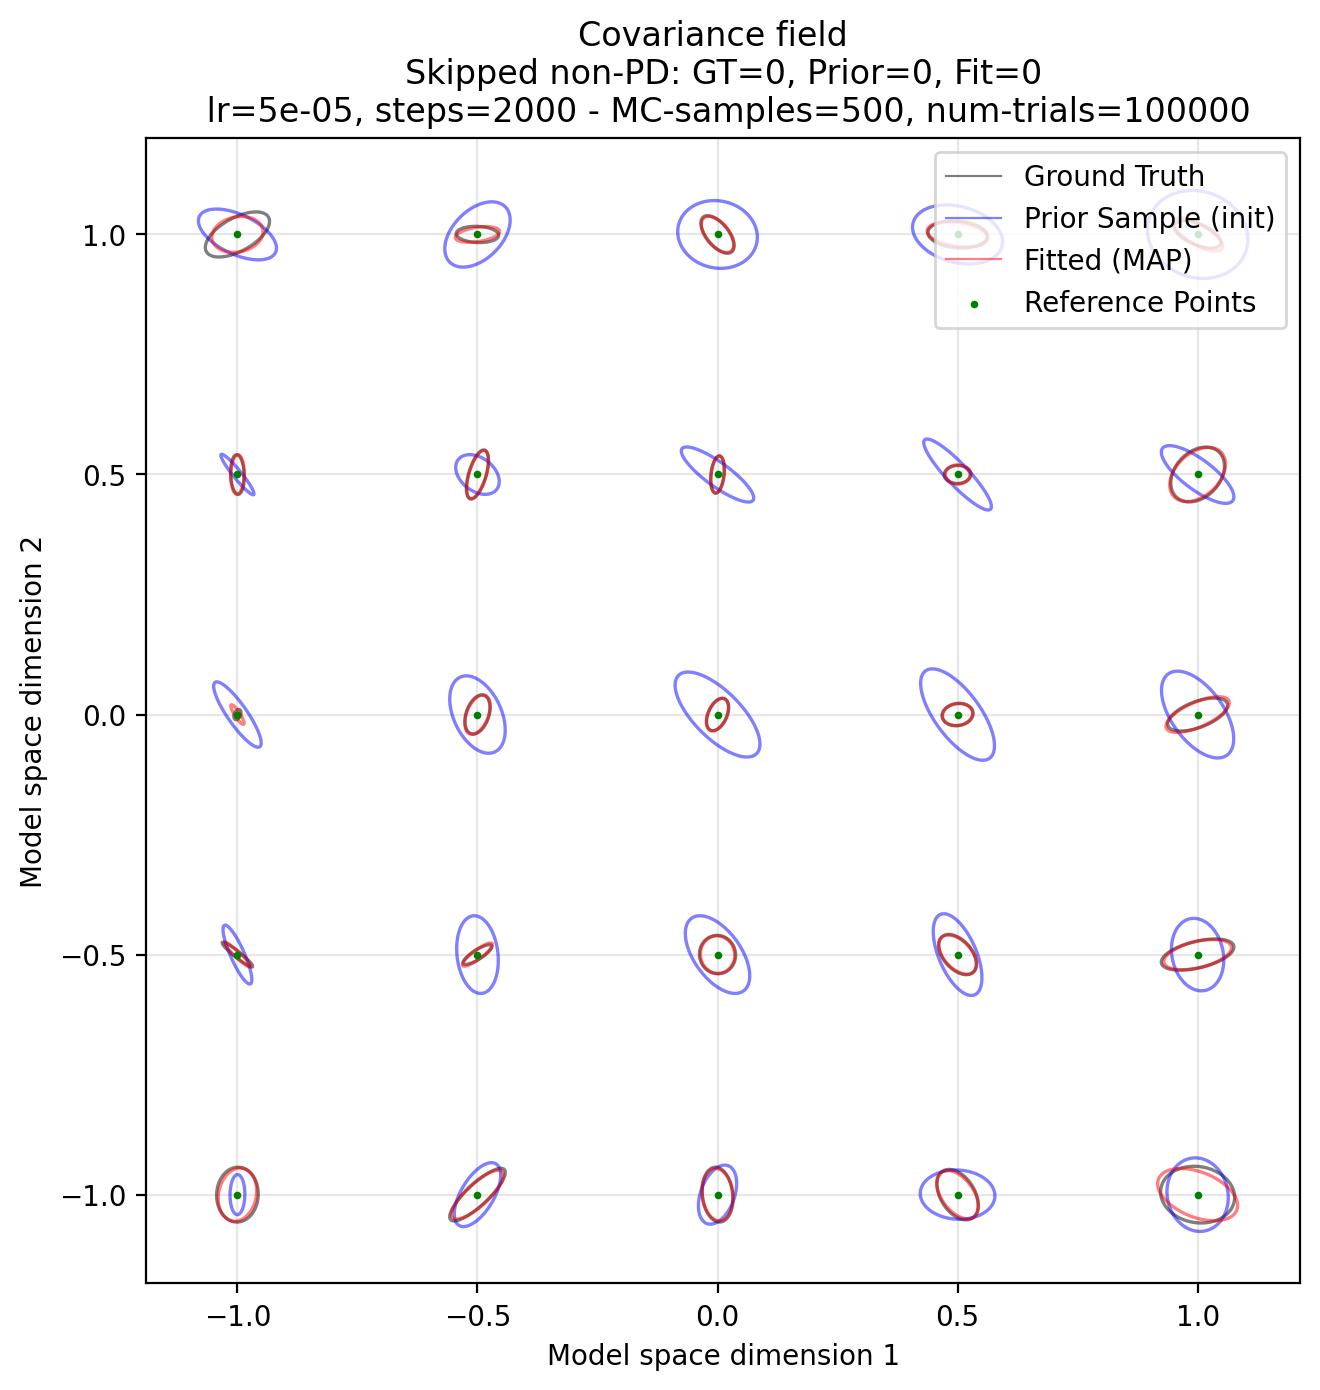
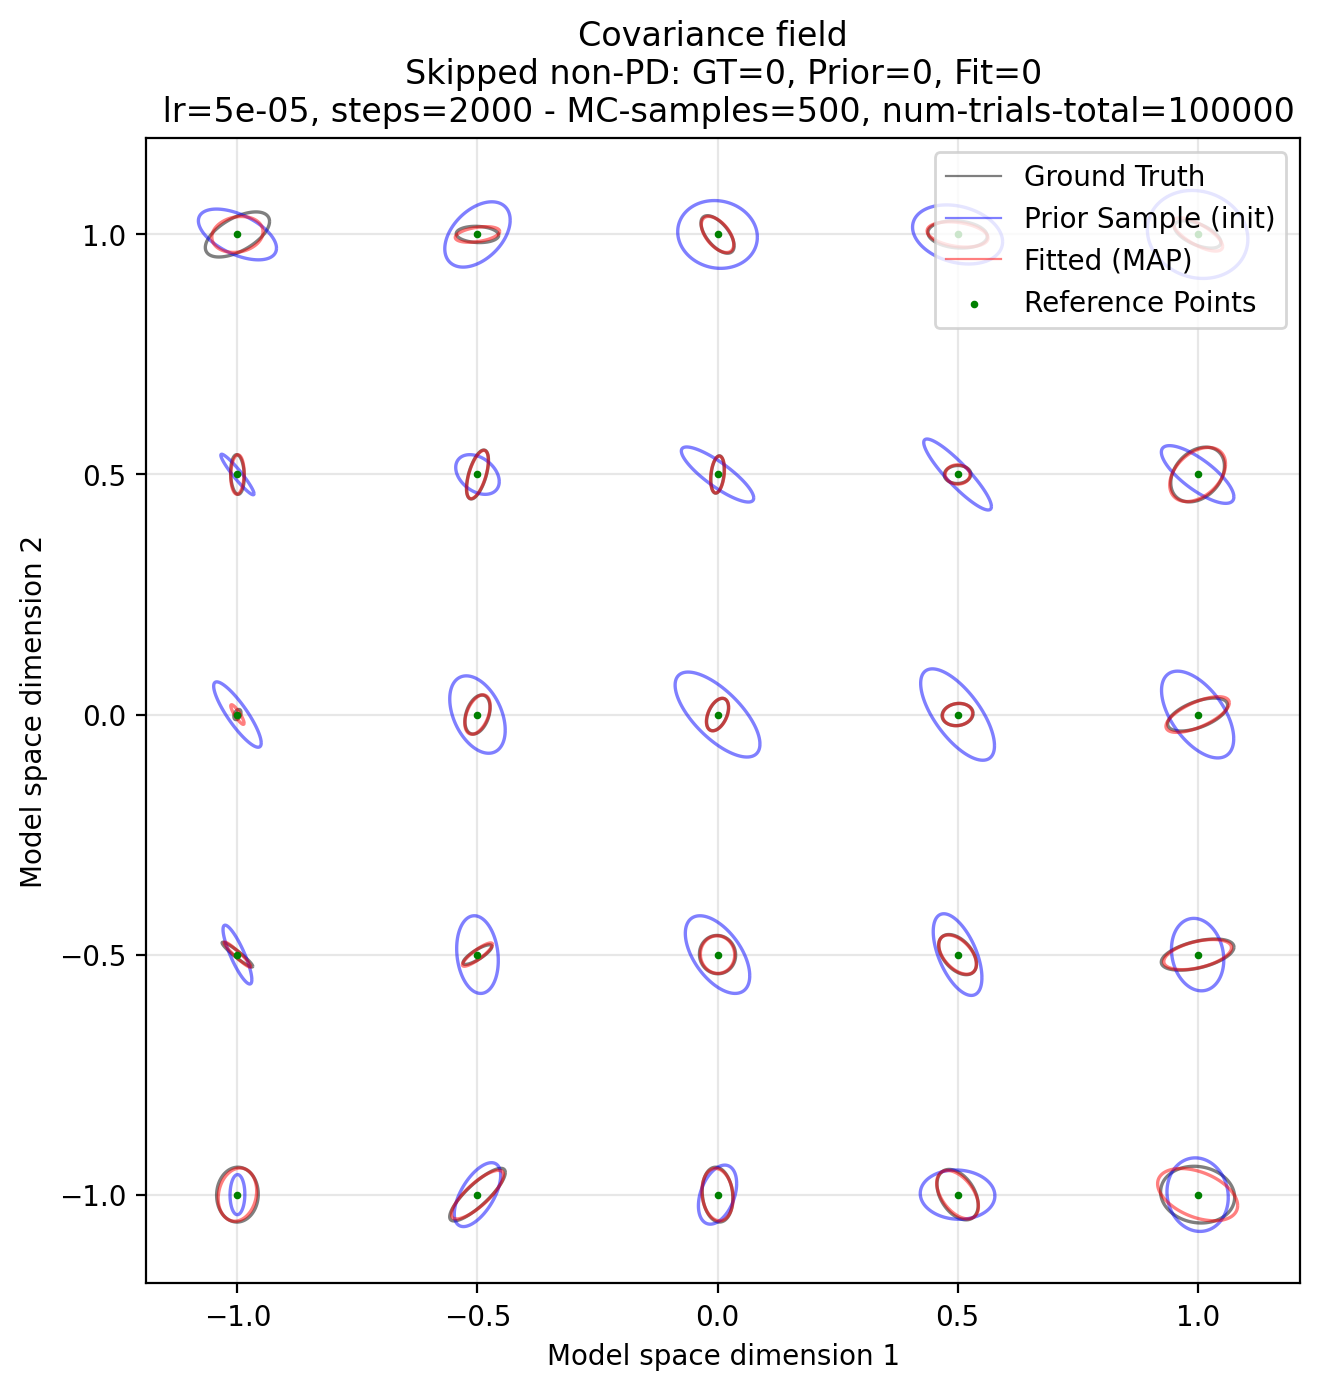
small tutorial update

Changed region(s): [[0.1242, 0.0619, 0.9939, 0.0928]]

diff --git a/docs/examples/wppm/full_wppm_fit_example.py b/docs/examples/wppm/full_wppm_fit_example.py
@@ -155,7 +155,7 @@ def _ellipse_segments_from_covs(
 
 NUM_GRID_PTS = 10  # Number of reference points over stimulus space.
 MC_SAMPLES = 500  # Number of Monte Carlo samples per trial in the likelihood. # 500
-NUM_TRIALS_TOTAL = 4000  # Total number of trials in the simulated dataset.
+NUM_TRIALS_Per_Ref = 4000  # Total number of trials in the simulated dataset.
 # 4000 trials does not work on cpu
 
 
@@ -219,7 +219,7 @@ truth_params = truth_model.init_params(jax.random.PRNGKey(123))
 
 
 # --8<-- [start:simulate_data]
-num_trials_per_ref = NUM_TRIALS_TOTAL  # (trials per reference point)
+num_trials_per_ref = NUM_TRIALS_Per_Ref  # (trials per reference point)
 n_ref_grid = 5  # NUM_GRID_PTS
 ref_grid = jnp.linspace(-1, 1, n_ref_grid)  # [-1,1] space
 ref_points = jnp.stack(jnp.meshgrid(ref_grid, ref_grid), axis=-1).reshape(-1, 2)
@@ -469,7 +469,7 @@ ref_scatter = ax.scatter(
 legend_handles.append(ref_scatter)
 ax.set_title(
     f"Covariance field  \nSkipped non-PD: GT={non_pd_counts[0]}, Prior={non_pd_counts[1]}, Fit={non_pd_counts[2]}"
-    f"\n lr={lr}, steps={steps} - MC-samples={MC_SAMPLES}, num-trials={num_trials_total}"
+    f"\n lr={lr}, steps={steps} - MC-samples={MC_SAMPLES}, num-trials-total={num_trials_total}"
 )
 ax.set_aspect("equal", adjustable="box")
 ax.set_xlabel("Model space dimension 1")
@@ -553,7 +553,7 @@ if steps_hist and loss_hist:
     ax2.set_xlim(steps_hist[0], steps_hist[-1])
     ax2.plot(steps_hist, loss_hist, color="#4444aa")
     ax2.set_title(
-        f"Learning curve — lr={lr}, steps={steps} - MC-samples={MC_SAMPLES}, num-trials={num_trials_total}"
+        f"Learning curve \n lr={lr}, steps={steps} - MC-samples={MC_SAMPLES}, num-trials-per-ref={num_trials_per_ref}"
     )
     ax2.set_xlabel("Step")
     ax2.set_ylabel("Neg log likelihood")

diff --git a/docs/examples/wppm/full_wppm_fit_example.md b/docs/examples/wppm/full_wppm_fit_example.md
@@ -1,31 +1,53 @@
 # Full WPPM fit (end-to-end) — simulated 2D data
 
-This tutorial explains what the example script [`full_wppm_fit_example.py`](full_wppm_fit_example.py) is doing, and where the key functions live in the `psyphy` codebase.
+This tutorial explains how to use the Wishart Psychophysical Process Model (WPPM) end to end:
+> You can treat this as a ``recipe'' for using the Wishart Psychophysical Process Model (WPPM) in your own project: build a model, initialize parameters, fit the model, and visualize fitted predicted thresholds.
 
-- **Goal:** Fit a *spatially varying covariance field* \(\Sigma(x)\) over a 2D stimulus space \(x \in [-1,1]^2\) using the **Wishart Process Psychophysical Model (WPPM)**.
+This tutorial explains the example that can be found and run
+ [`full_wppm_fit_example.py`](full_wppm_fit_example.py) and exposes key code snippets.
+
+
+
+### Notes on runtime, hardware, and key hyperparameters
+
+Runtime depends heavily on your device and on a few computation-driving hyperparameters (see below).
+- GPU (A100 40GB): With the default settings below, the script runs in ~3 minutes.
+- CPU: To make the script practical on CPU, reduce `MC_SAMPLES` aggressively (e.g., to 5–20 and `NUM_TRIALS_Per_Ref`) and shorten the **optimizer** run (reduce `num_steps`). These two knobs usually give the biggest speedups.
+- Apple Silicon / MPS: With the current configuration, the script takes … on  CPU
+- JAX-accelearion on MPS limitation (`jax-metal`): At the moment, JAX on MPS does not support some operations we rely on (e.g., Cholesky decomposition), hence CPU is the only
+
+#### Default compute settings (GPU)
+```python
+NUM_GRID_PTS = 10  # Number of reference points over stimulus space.
+MC_SAMPLES = 500  # Number of Monte Carlo samples per trial in the likelihood.
+NUM_TRIALS_Per_Ref = 4000  # Total number of trials in the simulated dataset per Grid/ref point.
+# optimizer:
+num_steps = 2000
+```
+
+
+### What the [script](full_wppm_fit_example.py) does in a nutshell
+- **Task:** Fit a *spatially varying covariance field* $\Sigma(x)$ over a 2D stimulus space $x \in [-1,1]^2$ using the **Wishart Process Psychophysical Model (WPPM)**.
 - **Data:** synthetic oddity-task responses simulated from a ``ground-truth'' WPPM.
 - **Inference:** MAP (maximum a posteriori) optimization of the WPPM parameters.
 
-> You can treat this as a ``recipe'' for using the Wishart Psychophysical Process Model (WPPM) in your own project: build a model, initialize parameters, fit the model, and visualize fitted predicted thresholds.
 
-NOTE: Running this script takes about 3 min on a A100 40GB.
-If you want to accelarate it to for example run it on a CPU, decrease the number of MC-Samples _significantly_ (e.g., 5) and the number of steps the optimizer is running for.
 
 ---
 
 ## What the Wishart Psychophysical Process Model (WPPM) is in a nutshell
 
-WPPM defines a *covariance matrix field* \(\Sigma(x)\) over stimulus space (e.g. color represented in RGB). Intuitively, \(\Sigma(x)\) describes the local noise/uncertainty ellipse around stimulus \(x\) where stimulus within that ellipse will be perceived as identical to the human observer.
+WPPM defines a *covariance matrix field* $\Sigma(x)$ over stimulus space (e.g. color represented in RGB). Intuitively, $\Sigma(x)$ describes the local noise/uncertainty ellipse around stimulus $x$ where stimulus within that ellipse will be perceived as identical to the human observer.
 
-The model represents \(\Sigma(x)\) as
+The model represents $\Sigma(x)$ as
 
 \[
 \Sigma(x) = U(x)U(x)^\top + \varepsilon I,
 \]
 
-where \(U(x)\) is a smooth, basis-expanded matrix-valued function and \(\varepsilon\) is a small diagonal “jitter” (`diag_term`) to avoid numerical issues. Alternatively, in Gaussian Process (GP) terms, you can think of \(U(x)\) defining a GP in weight space, i.e., a "Bayesian linear model".
+where $U(x)$ is a smooth, basis-expanded matrix-valued function and $\varepsilon$ is a small diagonal “jitter” (`diag_term`) to avoid numerical issues. Alternatively, in Gaussian Process (GP) terms, you can think of $U(x)$ defining a GP in weight space, i.e., a "Bayesian linear model".
 
-A psychophysical task model (here: `OddityTask`) uses \(\Sigma\) to compute probability of a correct response on each trial, and `MAPOptimizer` fits WPPM parameters by maximizing
+A psychophysical task model (here: `OddityTask`) uses $\Sigma$ to compute probability of a correct response on each trial, and `MAPOptimizer` fits WPPM parameters by maximizing
 
 \[
 \log p(\theta \mid \mathcal{D}) = \log p(\mathcal{D} \mid \theta) + \log p(\theta).
@@ -71,13 +93,13 @@ W \in \mathbb{R}^{(d+1) \times (d+1) \times D \times E},
 
 where:
 
-- \(d\) = `basis_degree`
-- \(D\) = `input_dim` (here 2)
-- \(E\) = `embedding_dim = input_dim + extra_embedding_dims`
+- $d$ = `basis_degree`
+- $D$ = `input_dim` (here 2)
+- $E$ = `embedding_dim = input_dim + extra_embedding_dims`
 
 The prior variance decays with basis “total degree”. In code:
 
-- `Prior._compute_basis_degree_grid()` constructs degrees \(i+j\) (2D) or \(i+j+k\) (3D).
+- `Prior._compute_basis_degree_grid()` constructs degrees $i+j$ (2D) or $i+j+k$ (3D).
 - `Prior._compute_W_prior_variances()` returns
 
 \[
@@ -100,10 +122,13 @@ This is the  state of the  WPPM: **before any data**, WPPM draws smooth random f
 
 <div align="center">
     <picture>
-    <img align="center" src="plots/prior_sample.png" width="600"/>
+    <img align="center" src="../plots/prior_sample.png" width="600"/>
     </picture>
     <p><em>A sample from the prior</em></p>
 </div>
+
+
+
 
 ---
 
@@ -132,7 +157,7 @@ The example uses a convenience wrapper:
 ```
 <div align="center">
     <picture>
-    <img align="center" src="plots/prior_sample.png" width="600"/>
+    <img align="center" src="../plots/prior_sample.png" width="600"/>
     </picture>
     <p><em>A sample from the prior</em></p>
 </div>
@@ -143,11 +168,11 @@ The example uses a convenience wrapper:
 At a high level:
 
 - Input: `x` with shape `(D,)` or `(..., D)`.
-- Output: covariance matrix/matrices \(\Sigma(x)\) with shape `(..., D, D)`.
+- Output: covariance matrix/matrices $\Sigma(x)$ with shape `(..., D, D)`.
 
 Mathematically:
 
-1. Compute a basis feature vector \(\phi(x)\) (Chebyshev basis products).
+1. Compute a basis feature vector $\phi(x)$ (Chebyshev basis products).
 2. Form a matrix
 
 \[
@@ -162,7 +187,7 @@ U(x) = \sum_{i,j} W_{ij}\, \phi_{ij}(x)
 \Sigma(x) = U(x)U(x)^\top + \varepsilon I.
 \]
 
-In the code, the name “sqrt” is often used for \(U(x)\): it is a *square-root factor* of the covariance (up to the diagonal term).
+In the code, the name “sqrt” is often used for $U(x)$: it is a *square-root factor* of the covariance (up to the diagonal term).
 
 > If you’re looking for the implementation details of the “sqrt” computation, search in `src/psyphy/model/wppm.py` for a helper named like `_compute_sqrt` (or similarly named). That’s where you’ll find the `einsum` contraction turning `W` and basis features into `U(x)`.
 
@@ -196,8 +221,8 @@ MAP fitting finds
 \theta_\text{MAP} = \arg\max_{\theta} \big[\log p(\mathcal{D}\mid\theta) + \log p(\theta)\big].
 \]
 
-- \(\log p(\theta)\) is from `Prior.log_prob(params)` (see `prior.py`).
-- \(\log p(\mathcal{D}\mid\theta)\) is computed by the task’s log-likelihood (here via Monte Carlo inside `OddityTask.loglik`).
+- $\log p(\theta)$ is from `Prior.log_prob(params)` (see `prior.py`).
+- $\log p(\mathcal{D}\mid\theta)$ is computed by the task’s log-likelihood (here via Monte Carlo inside `OddityTask.loglik`).
 
 The result in this example is a `MAPPosterior` object that contains a point estimate `map_posterior.params`.
 
@@ -207,7 +232,7 @@ The result in this example is a `MAPPosterior` object that contains a point esti
 ## Step 6 — Visualize fit vs. truth vs. prior sample
 <div align="center">
     <picture>
-    <img align="center" src="plots/ellipses.png" width="600"/>
+    <img align="center" src="../plots/ellipses.png" width="600"/>
     </picture>
     <p><em>Fitted ellipsoids overlayed with ground truth and model initialization, a sample from the prior.</em></p>
 </div>
@@ -218,7 +243,7 @@ The result in this example is a `MAPPosterior` object that contains a point esti
 ```
 <div align="center">
     <picture>
-    <img align="center" src="plots/learning_curve.png" width="600"/>
+    <img align="center" src="../plots/learning_curve.png" width="600"/>
     </picture>
     <p><em>Learning curve.</em></p>
 </div>
@@ -246,7 +271,7 @@ To use WPPM on your own data, these are the essential calls:
 5. **Fit**:
    - `map = MAPOptimizer(...).fit(model, data, init_params=params0, ...)`
 
-6. **Inspect** \(\Sigma(x)\):
+6. **Inspect** $\Sigma(x)$:
    - `field = WPPMCovarianceField(model, map.params)`
    - `Sigmas = field(xs)`
 
@@ -289,6 +314,6 @@ instead of using relative filesystem paths.
 If you want to “follow the call graph”:
 
 1. `WPPM.init_params(...)` (defined in [`src/psyphy/model/wppm.py`](https://github.com/flatironinstitute/psyphy/blob/main/src/psyphy/model/wppm.py)) → delegates to the prior’s `Prior.sample_params(...)` (defined in [`src/psyphy/model/prior.py`](https://github.com/flatironinstitute/psyphy/blob/main/src/psyphy/model/prior.py)).
-2. `OddityTask.predict_with_kwargs(...)` / `OddityTask.loglik(...)` (defined in [`src/psyphy/model/task.py`](https://github.com/flatironinstitute/psyphy/blob/main/src/psyphy/model/task.py)) → calls into the model to get \(\Sigma(x)\) and then runs the task’s decision rule (Monte Carlo in the full model).
-3. `WPPMCovarianceField(model, params)` (defined in [`src/psyphy/model/covariance_field.py`](https://github.com/flatironinstitute/psyphy/blob/main/src/psyphy/model/covariance_field.py)) → provides a callable `field(x)` that returns \(\Sigma(x)\) for single points or batches.
+2. `OddityTask.predict_with_kwargs(...)` / `OddityTask.loglik(...)` (defined in [`src/psyphy/model/task.py`](https://github.com/flatironinstitute/psyphy/blob/main/src/psyphy/model/task.py)) → calls into the model to get $\Sigma(x)$ and then runs the task’s decision rule (Monte Carlo in the full model).
+3. `WPPMCovarianceField(model, params)` (defined in [`src/psyphy/model/covariance_field.py`](https://github.com/flatironinstitute/psyphy/blob/main/src/psyphy/model/covariance_field.py)) → provides a callable `field(x)` that returns $\Sigma(x)$ for single points or batches.
 4. `MAPOptimizer.fit(...)` (defined in [`src/psyphy/inference/map_optimizer.py`](https://github.com/flatironinstitute/psyphy/blob/main/src/psyphy/inference/map_optimizer.py)) → runs gradient-based optimization of the negative log likelihood.

diff --git a/docs/examples/covariance_field/covariance_field.md b/docs/examples/covariance_field/covariance_field.md
@@ -72,7 +72,7 @@ We can visualize the threshold at a single point as an ellipse:
 
 <div align="center">
     <picture>
-    <img align="center" src="plots/single_point_ellipse.png" width="600"/>
+    <img align="center" src="../plots/single_point_ellipse.png" width="600"/>
     </picture>
     <p><em>Threshold ellipse at point (0.5, 0.5). The ellipse shape encodes the covariance structure: elongation shows correlation direction, size shows threshold magnitude.</em></p>
 </div>
@@ -101,7 +101,7 @@ To see how thresholds vary across space, we evaluate the covariance field at mul
 
 <div align="center">
     <picture>
-    <img align="center" src="plots/ellipse_grid.png" width="700"/>
+    <img align="center" src="../plots/ellipse_grid.png" width="700"/>
     </picture>
     <p><em>5×5 grid of uncertainty ellipses showing spatial variation. note how ellipse size, shape, and orientation vary smoothly across the stimulus space.</em></p>
 </div>
@@ -123,7 +123,7 @@ You can sample multiple fields from the prior or create fields from custom param
 
 <div align="center">
     <picture>
-    <img align="center" src="plots/custom_field_ellipses.png" width="700"/>
+    <img align="center" src="../plots/custom_field_ellipses.png" width="700"/>
     </picture>
     <p><em>Different prior sample produces different spatial pattern.</em></p>
 </div>
